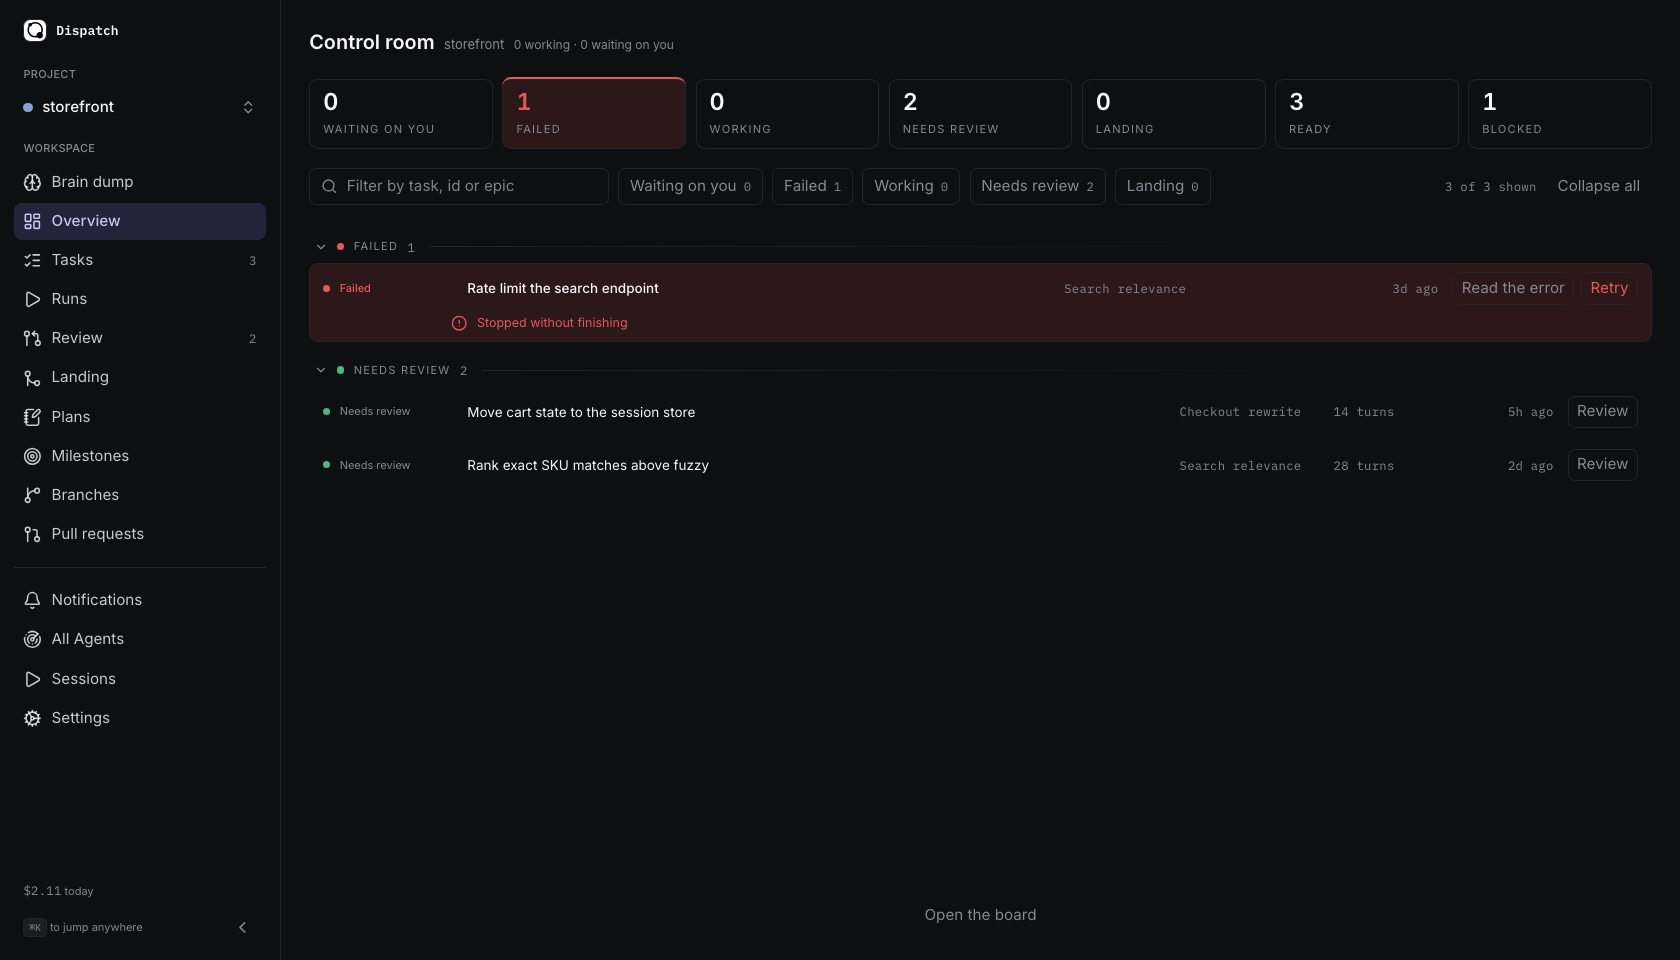
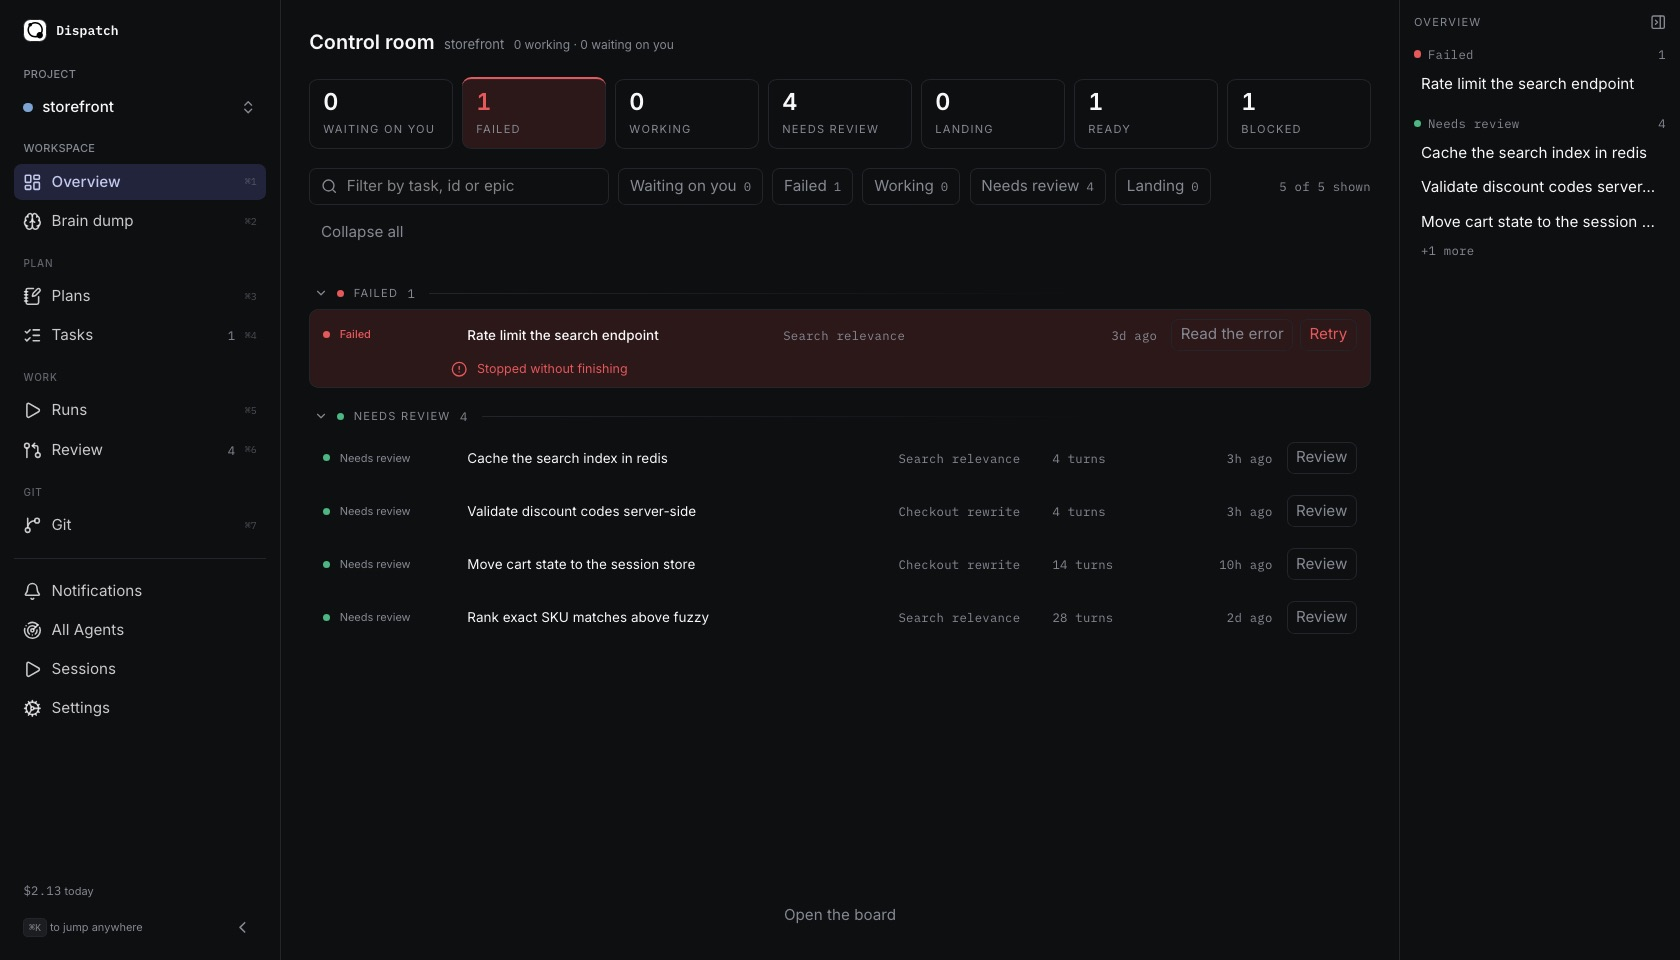
docs(site): re-shoot the screens, and add Git
The screenshots showed a nine-item sidebar, no review queue and no git page —
an app that has not existed for several releases. A marketing site with stale
screenshots is worse than one with none: it is a specific claim about what you
get, and it was wrong.

Git replaces Brain dump as the fifth tab. Not because Brain dump matters less,
but because "a checkout per run costs real disk, here is how much and what is
safe to reclaim" is the screen nothing else in this category has, and the point
of the tabs is to show what is worth showing rather than to be complete.

diff --git a/apps/site/public/app.js b/apps/site/public/app.js
@@ -21,21 +21,25 @@
   if (!img || !cap || !nav) return;
 
   const SHOTS = {
-    overview: {
-      alt: 'The Overview screen: work grouped by what it needs — needs review, landing, ready, blocked.',
-      cap: 'Everything grouped by what it needs from you. Nothing is a feed of messages.',
-    },
     tasks: {
       alt: 'The Tasks board: backlog, todo, in-progress, in-review and done columns with task and epic cards.',
       cap: 'A board, with epics as cards and one lane per epic if you want it.',
     },
+    overview: {
+      alt: 'The Overview screen: work grouped by what it needs — needs review, failed, ready, blocked.',
+      cap: 'Everything grouped by what it needs from you. Not a feed of messages.',
+    },
     runs: {
       alt: 'The Runs screen: a list of agent runs with states and costs, and one run open showing its transcript.',
-      cap: 'Every run, what it cost, and exactly what the agent did — including the ones that failed.',
+      cap: 'Every run, what it cost, and what the agent did — including the ones that failed.',
     },
-    'brain-dump': {
-      alt: 'The Brain dump screen: a capture box above an inbox of short captured notes with kind badges.',
-      cap: 'Capture first, decide later. It all lands in .dispatch/inbox.md.',
+    review: {
+      alt: 'The Review screen: a queue of work needing review, above the merge queue it feeds.',
+      cap: 'What needs a look, then what is landing. Approving is what moves one to the other.',
+    },
+    git: {
+      alt: 'The Git screen: branch and worktree counts, disk used, and stale, orphaned and stacked worktrees.',
+      cap: 'A checkout per run costs real disk. This says how much, and what is safe to reclaim.',
     },
   };
 

diff --git a/apps/site/public/index.html b/apps/site/public/index.html
@@ -535,18 +535,18 @@ there is output. Move to a push model.
           <button
             type="button"
             role="tab"
-            data-shot="overview"
-            aria-selected="false"
-          >
-            Overview
-          </button>
-          <button
-            type="button"
-            role="tab"
             data-shot="tasks"
             aria-selected="true"
           >
             Tasks
+          </button>
+          <button
+            type="button"
+            role="tab"
+            data-shot="overview"
+            aria-selected="false"
+          >
+            Overview
           </button>
           <button
             type="button"
@@ -559,10 +559,18 @@ there is output. Move to a push model.
           <button
             type="button"
             role="tab"
-            data-shot="brain-dump"
+            data-shot="review"
             aria-selected="false"
           >
-            Brain dump
+            Review
+          </button>
+          <button
+            type="button"
+            role="tab"
+            data-shot="git"
+            aria-selected="false"
+          >
+            Git
           </button>
         </div>
 
